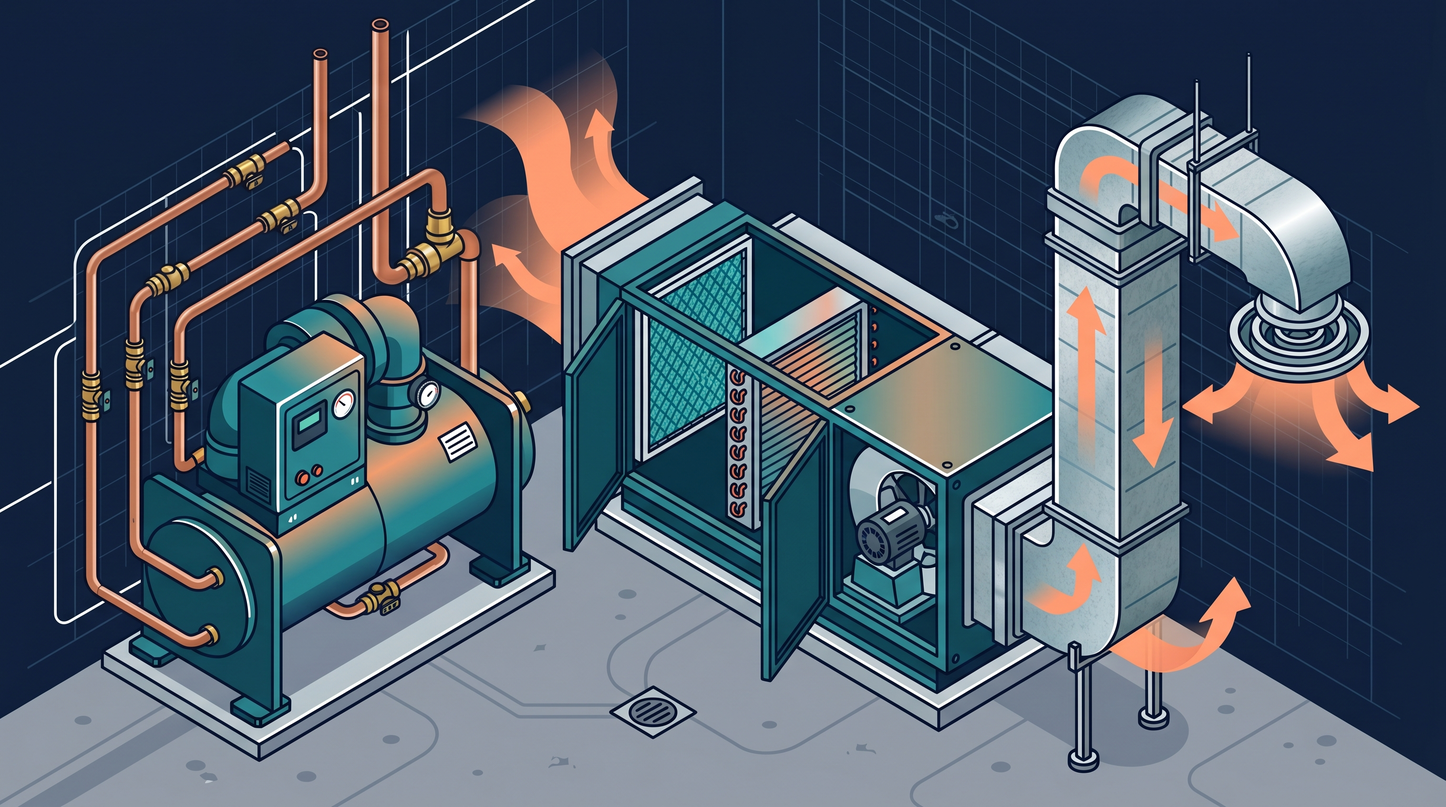
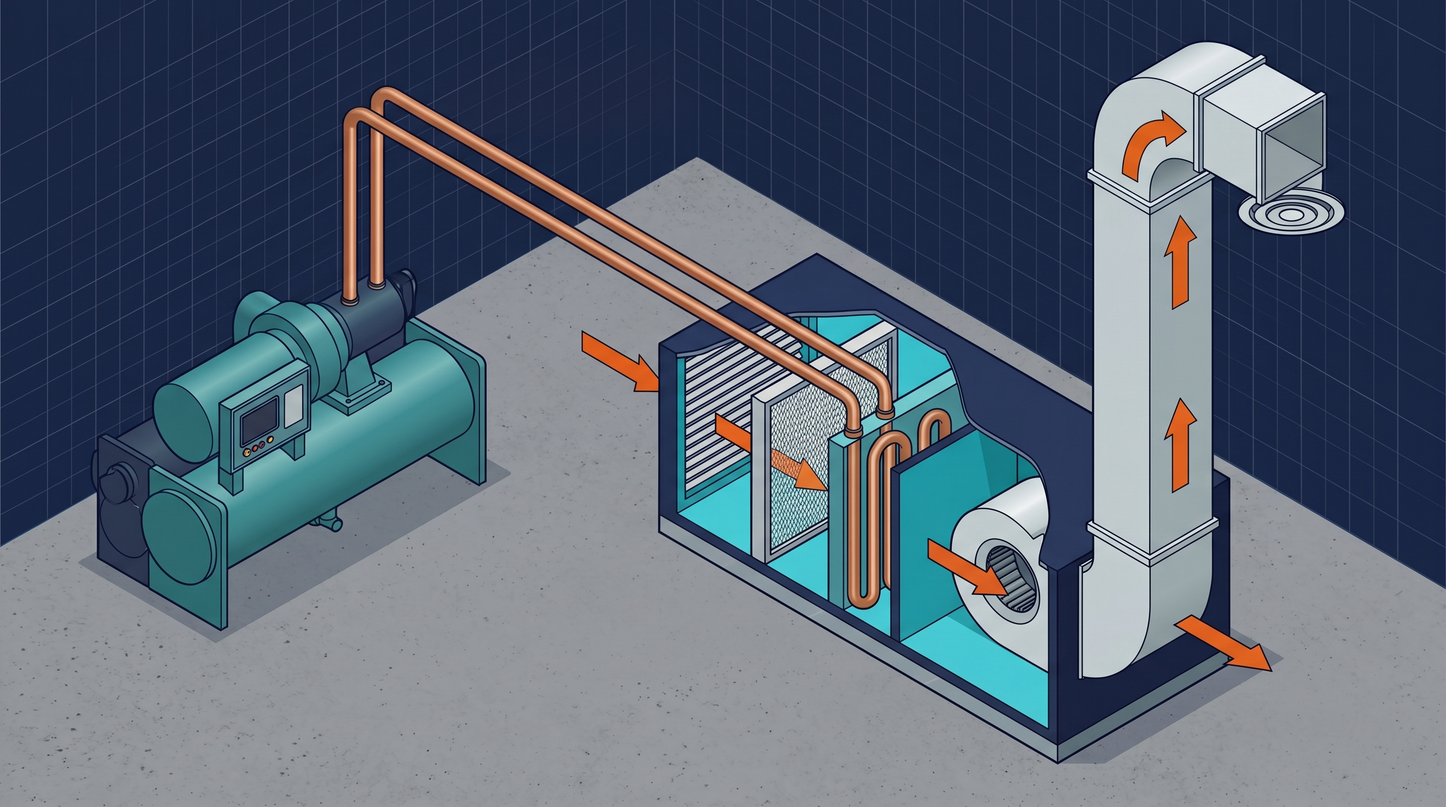
Fix hero illustration — chiller now connects to AHU coil, fresh air enters from filter side
Engineering critique from the operator caught two technical errors in
the previous AI-generated hero:
- The chiller's refrigerant/water pipes were floating in air, not
  actually connecting to the AHU.
- The fresh-air inlet on the AHU was drawn at the top of the unit
  instead of the filter side, so the airflow direction was wrong.

Regenerated with an explicit engineering brief that forced:
- Two copper chilled-water pipes leaving the chiller TOP, looping
  across, and physically joining the AHU cooling coil header.
- AHU cutaway showing the correct left-to-right section order:
  outdoor-air louver -> filter -> cooling coil (with chilled water
  U-bend tubing visible at the connection point) -> centrifugal fan
  -> supply discharge.
- Single coherent orange airflow path: enters the LEFT filter side,
  passes through coil and fan, exits the RIGHT into the ductwork,
  rises vertically through the duct riser, and discharges at the
  ceiling diffuser.

What's New id bumped to v2 so existing testers see the corrected
illustration on next load.

diff --git a/src/build-info.ts b/src/build-info.ts
@@ -1,6 +1,6 @@
 // AUTO-GENERATED by scripts/stamp-version.mjs — do not edit by hand.
 export const BUILD_INFO = {
   "version": "1.0.0",
-  "buildHash": "e5a1f616c7a0",
-  "builtAt": "2026-06-07T19:58:14.000Z"
+  "buildHash": "e37a5bc1a7db",
+  "builtAt": "2026-06-07T20:07:02.116Z"
 } as const;

diff --git a/src/data/whatsNew.ts b/src/data/whatsNew.ts
@@ -11,7 +11,7 @@ export interface WhatsNewEntry {
 
 export const WHATS_NEW: WhatsNewEntry[] = [
   {
-    id: '2026-05-28-illustrations',
+    id: '2026-05-28-illustrations-v2',
     date: 'May 2026',
     title: 'Custom AI-generated illustrations',
     items: [
